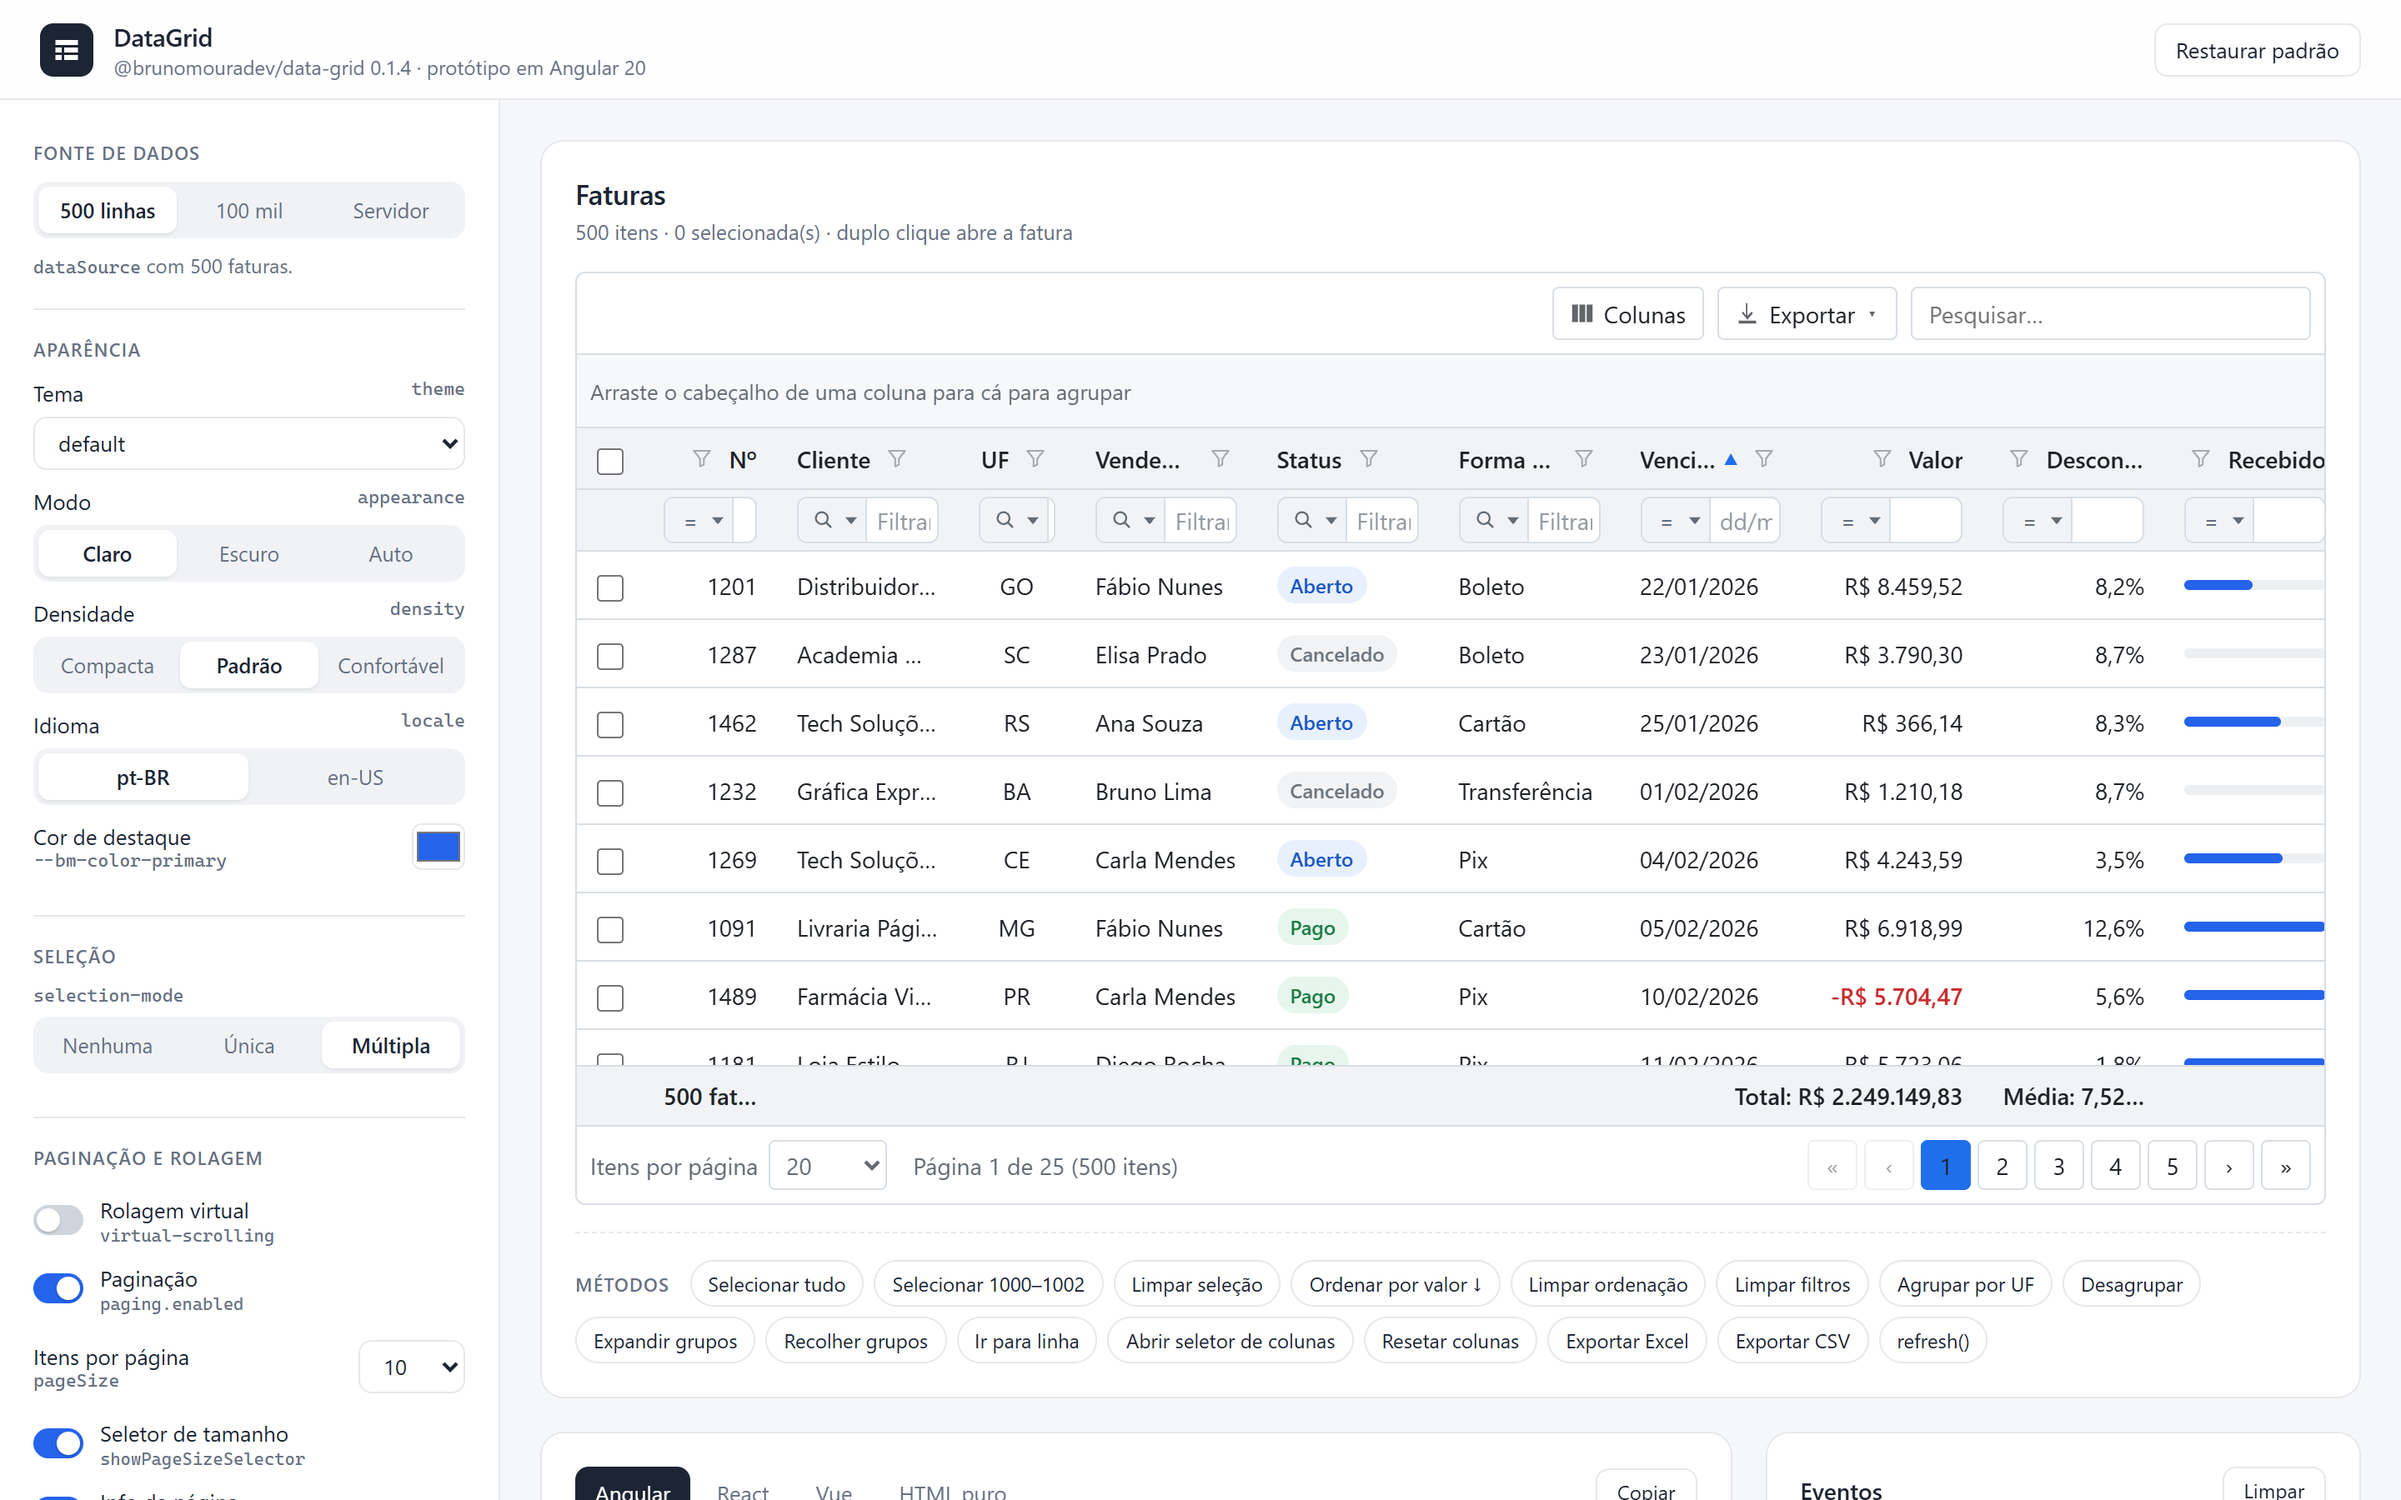
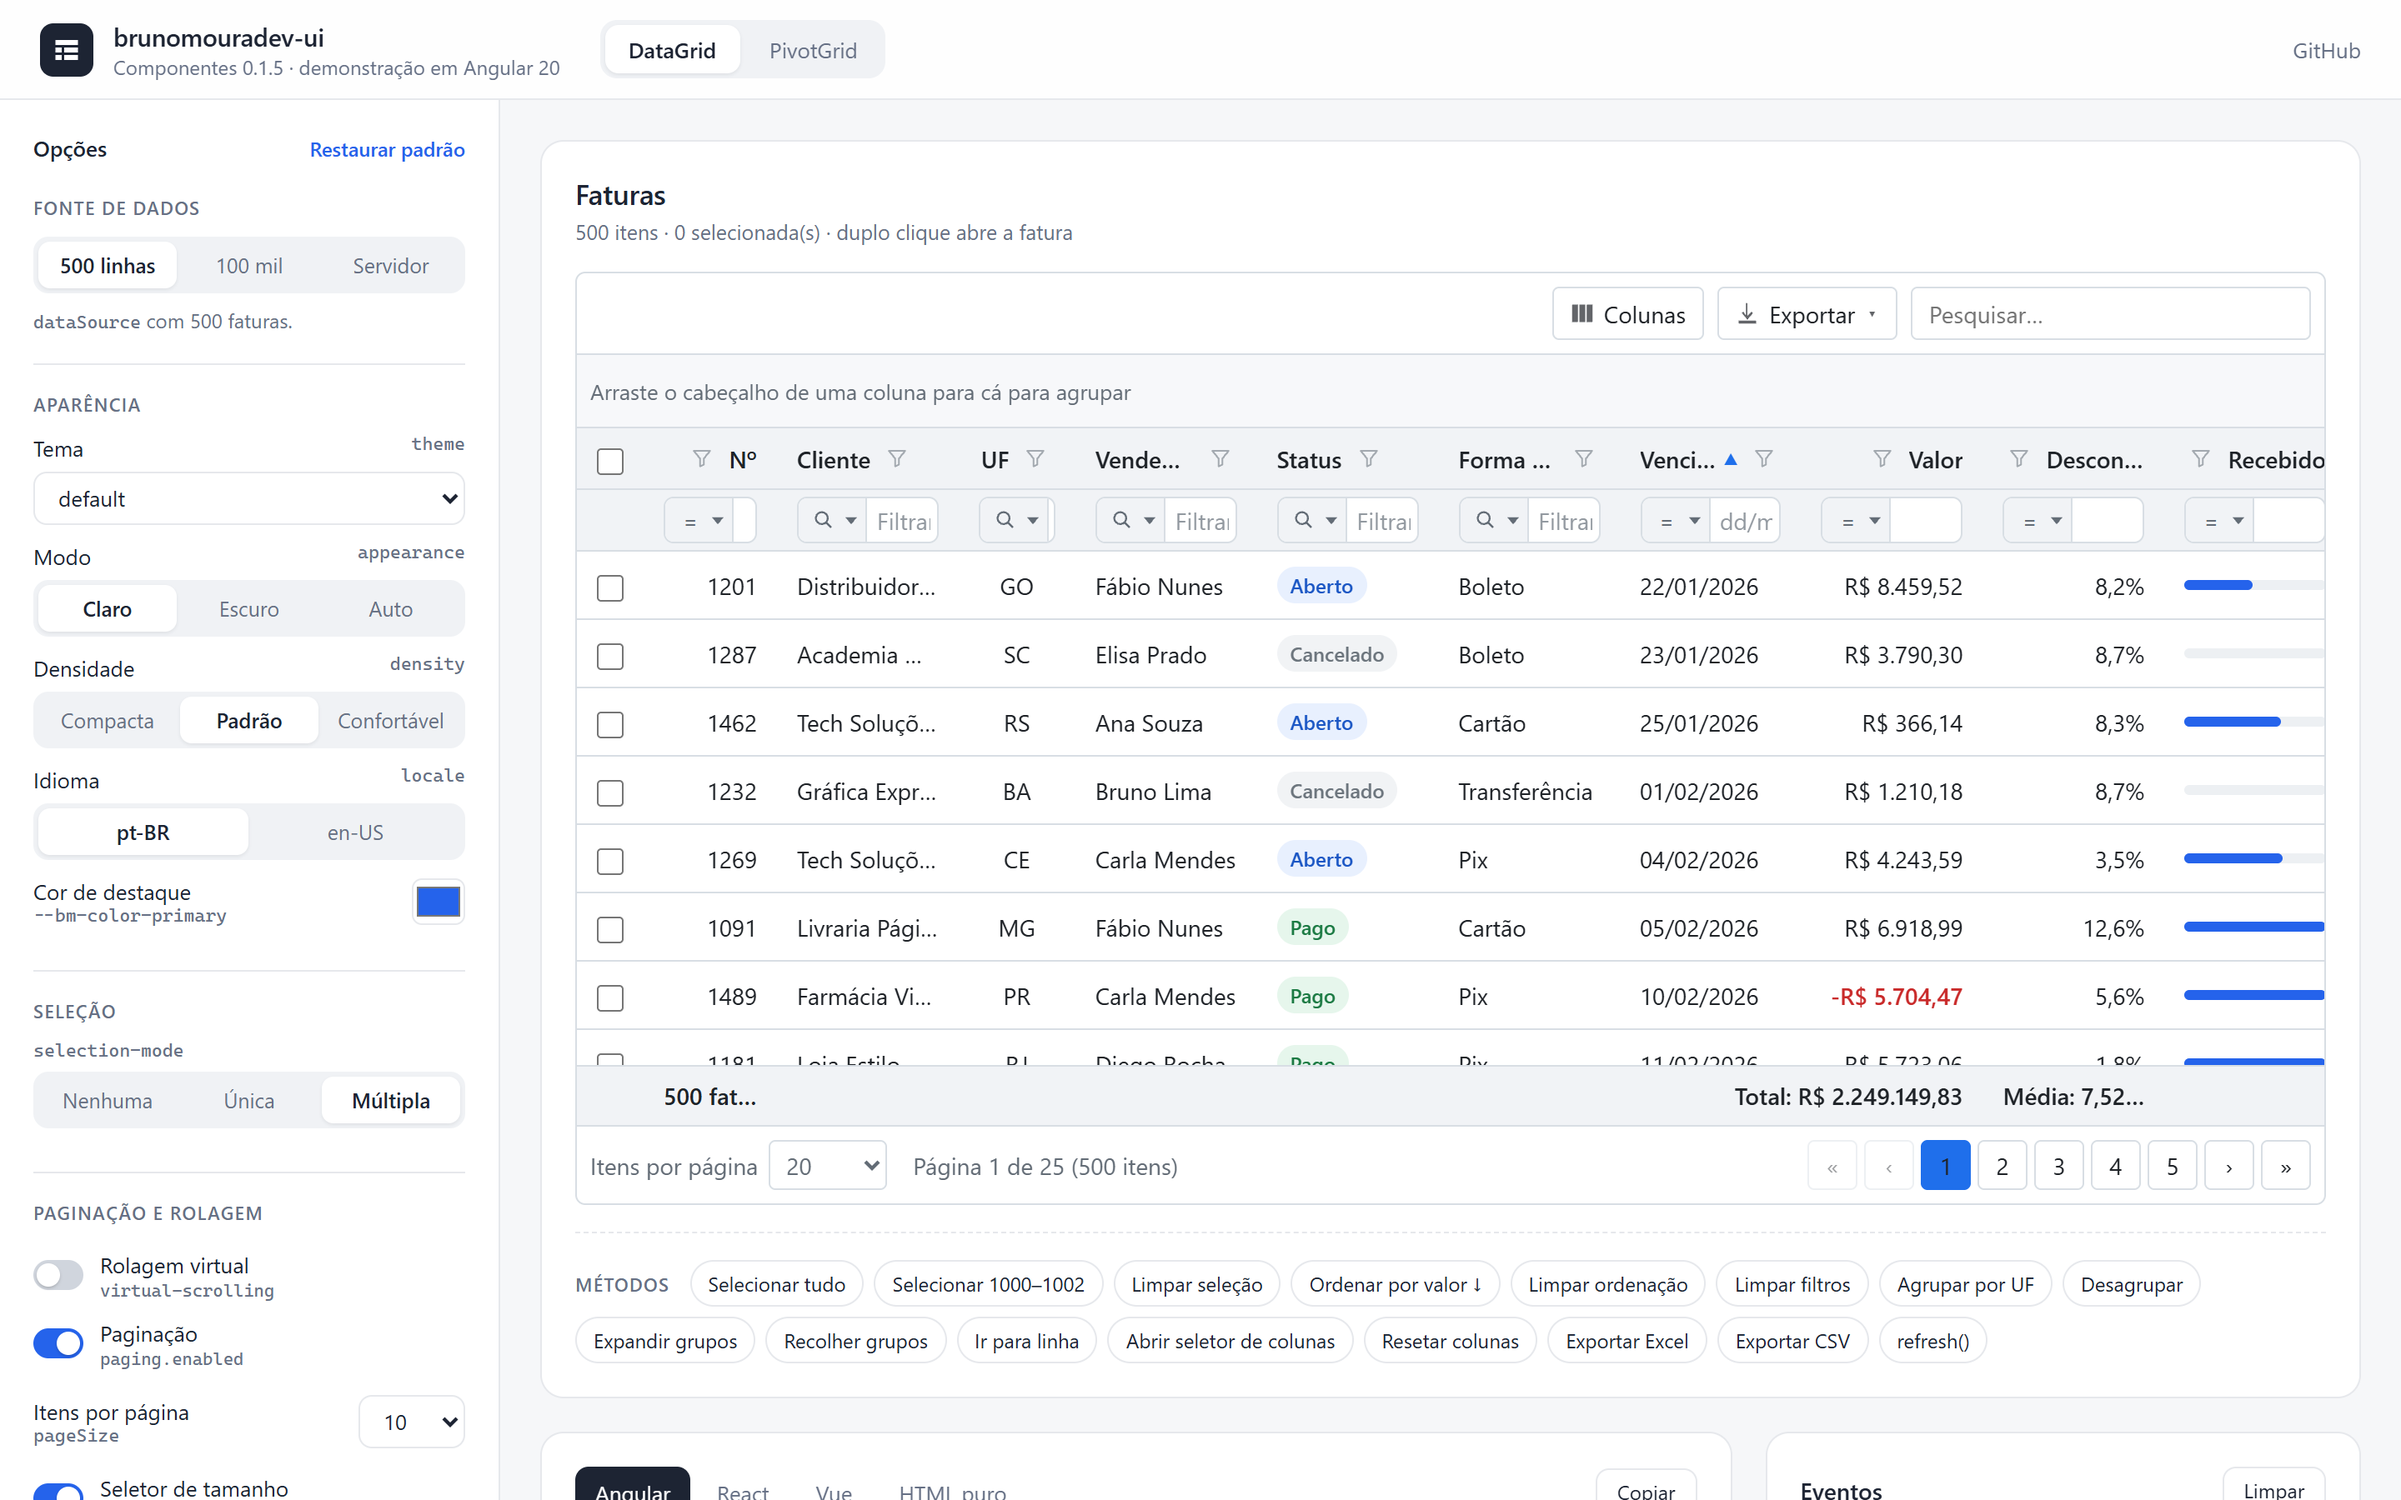
docs: prints e links do exemplo do PivotGrid

diff --git a/README.md b/README.md
@@ -7,8 +7,8 @@ O visual se adapta ao projeto: `configure({ theme: 'bootstrap4' | 'bootstrap5' |
 ## Links
 
 - **Este projeto (código-fonte):** https://github.com/antoniobrunomourateixeira/brunomouradev-ui
-- **Exemplo rodando online:** https://antoniobrunomourateixeira.github.io/datagrid-prototipo/
-- **Exemplo completo da DataGrid** (Angular 20, todas as opções, métodos, eventos e o código em Angular, React, Vue e HTML puro): https://github.com/antoniobrunomourateixeira/datagrid-prototipo
+- **Exemplo rodando online:** DataGrid https://antoniobrunomourateixeira.github.io/datagrid-prototipo/#/datagrid · PivotGrid https://antoniobrunomourateixeira.github.io/datagrid-prototipo/#/pivot
+- **Código do exemplo** (Angular 20, todas as opções da DataGrid e do PivotGrid, métodos, eventos e o código em Angular, React, Vue e HTML puro): https://github.com/antoniobrunomourateixeira/datagrid-prototipo
 - **npm:** [@brunomouradev/data-grid](https://www.npmjs.com/package/@brunomouradev/data-grid) · [@brunomouradev/pivot-grid](https://www.npmjs.com/package/@brunomouradev/pivot-grid) · [@brunomouradev/tree-list](https://www.npmjs.com/package/@brunomouradev/tree-list)
 
 ![DataGrid: protótipo com todas as opções](docs/prints/01-visao-geral.png)
@@ -20,6 +20,14 @@ O visual se adapta ao projeto: `configure({ theme: 'bootstrap4' | 'bootstrap5' |
 | 100 mil linhas com rolagem virtual | Código gerado e eventos |
 |---|---|
 | ![100 mil linhas](docs/prints/05-100-mil-linhas.png) | ![Código e eventos](docs/prints/04-codigo-e-eventos.png) |
+
+**PivotGrid**
+
+![PivotGrid: protótipo com todas as opções](docs/prints/06-pivot-visao-geral.png)
+
+| Layout tabular e escala de cores | Drill down numa DataGrid |
+|---|---|
+| ![Pivot tabular](docs/prints/07-pivot-tabular-cores.png) | ![Drill down](docs/prints/08-pivot-drill-down.png) |
 
 | Pacote | Tag | O que faz |
 |---|---|---|

diff --git a/packages/pivot-grid/README.md b/packages/pivot-grid/README.md
@@ -4,6 +4,16 @@
 
 Tabela dinâmica (pivot) em **Web Component** (`<bm-pivot-grid>`), no estilo do dxPivotGrid da DevExpress. Funciona em Angular (inclusive 11), React, Vue ou HTML puro.
 
+- **Código-fonte:** [github.com/antoniobrunomourateixeira/brunomouradev-ui](https://github.com/antoniobrunomourateixeira/brunomouradev-ui)
+- **Exemplo rodando online:** [https://antoniobrunomourateixeira.github.io/datagrid-prototipo/#/pivot](https://antoniobrunomourateixeira.github.io/datagrid-prototipo/#/pivot)
+- **Código do exemplo (Angular 20, todas as opções e o código em Angular, React, Vue e HTML puro):** [github.com/antoniobrunomourateixeira/datagrid-prototipo](https://github.com/antoniobrunomourateixeira/datagrid-prototipo)
+
+![PivotGrid: protótipo com todas as opções](https://raw.githubusercontent.com/antoniobrunomourateixeira/brunomouradev-ui/main/docs/prints/06-pivot-visao-geral.png)
+
+| Layout tabular e escala de cores | Drill down numa DataGrid |
+|---|---|
+| ![Pivot tabular](https://raw.githubusercontent.com/antoniobrunomourateixeira/brunomouradev-ui/main/docs/prints/07-pivot-tabular-cores.png) | ![Drill down](https://raw.githubusercontent.com/antoniobrunomourateixeira/brunomouradev-ui/main/docs/prints/08-pivot-drill-down.png) |
+
 - Hierarquias de linhas e colunas com expandir e recolher, inclusive "expandir tudo"
 - Subtotais e total geral de linhas e colunas
 - Dois layouts de linhas: em árvore (uma coluna com recuo, subtotal na linha do grupo) ou tabular (uma coluna por campo, subtotal numa linha "X Total" abaixo do grupo)

diff --git a/packages/data-grid/README.md b/packages/data-grid/README.md
@@ -5,7 +5,7 @@
 DataGrid em **Web Component** (`<bm-data-grid>`), no estilo DevExpress. Funciona em Angular (inclusive 11), React, Vue ou HTML puro.
 
 - **Código-fonte:** [github.com/antoniobrunomourateixeira/brunomouradev-ui](https://github.com/antoniobrunomourateixeira/brunomouradev-ui)
-- **Exemplo rodando online:** [https://antoniobrunomourateixeira.github.io/datagrid-prototipo/](https://antoniobrunomourateixeira.github.io/datagrid-prototipo/)
+- **Exemplo rodando online:** [https://antoniobrunomourateixeira.github.io/datagrid-prototipo/#/datagrid](https://antoniobrunomourateixeira.github.io/datagrid-prototipo/#/datagrid)
 - **Exemplo completo (Angular 20, com todas as opções e o código em Angular, React, Vue e HTML puro):** [github.com/antoniobrunomourateixeira/datagrid-prototipo](https://github.com/antoniobrunomourateixeira/datagrid-prototipo)
 
 ![DataGrid: protótipo com todas as opções](https://raw.githubusercontent.com/antoniobrunomourateixeira/brunomouradev-ui/main/docs/prints/01-visao-geral.png)
